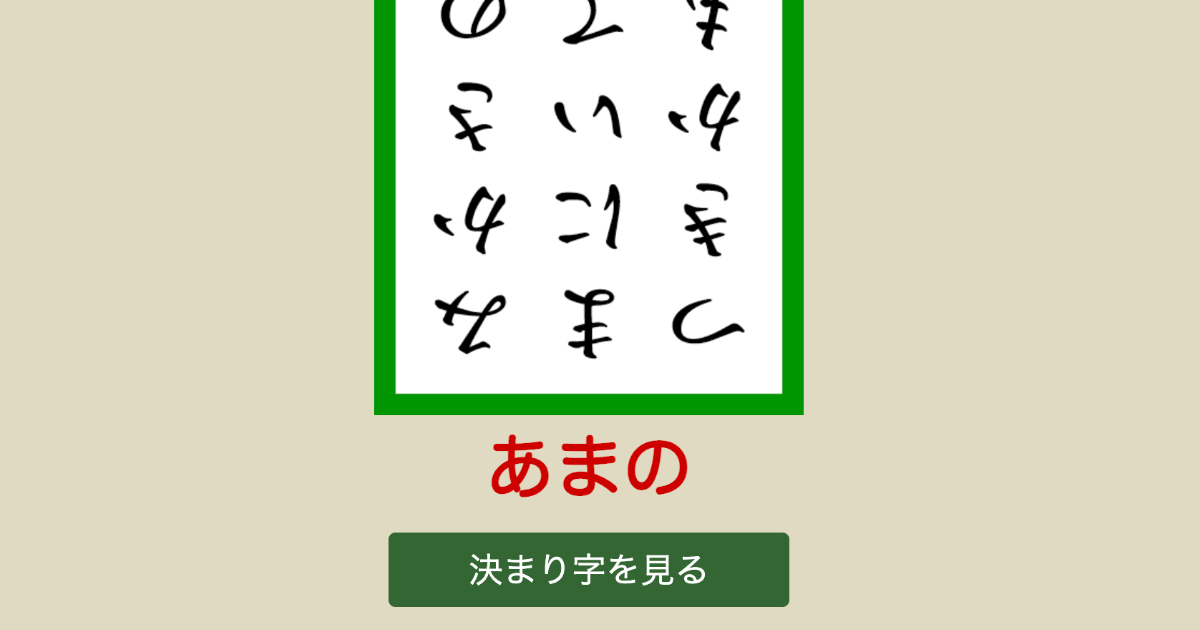
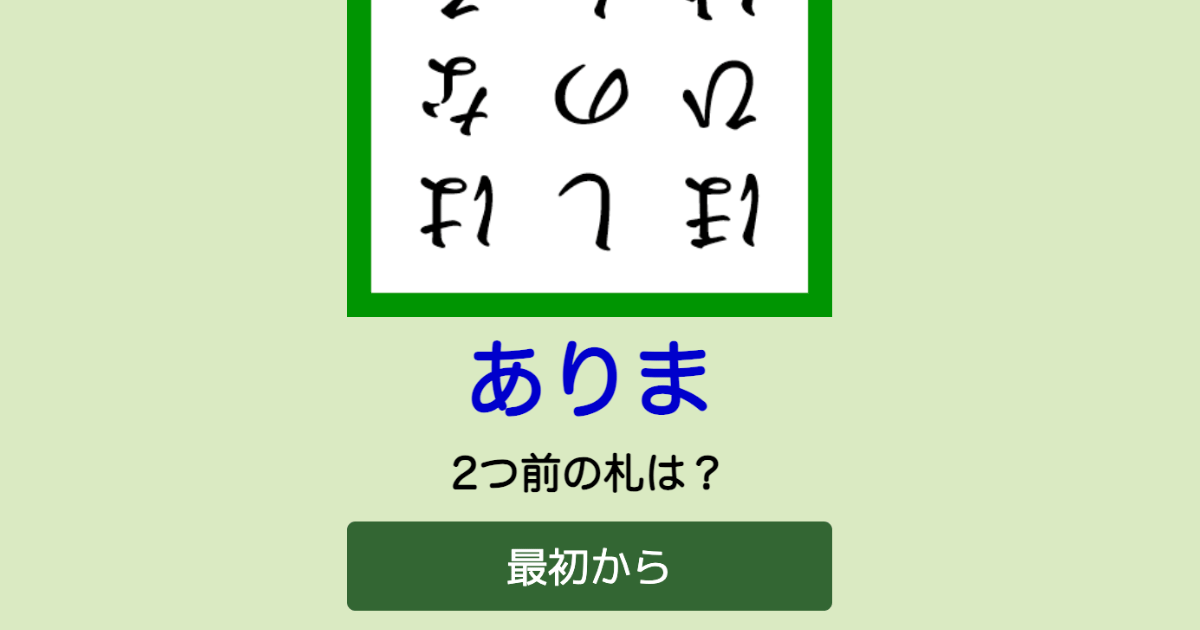
完成版

diff --git a/script.js b/script.js
@@ -12,18 +12,19 @@ document.addEventListener("DOMContentLoaded", function() {
     const imageElement = document.getElementById('random-image');
     const reloadButton = document.getElementById('reload-button');
     const kimariji = document.getElementById('kimariji');
+    const question = document.getElementById('question');
     const kimarijiButton = document.getElementById('kimariji-button');
 
     // 決まり字の表示
-    kimarijiButton.addEventListener('click', function() {
-        if (window.getComputedStyle(kimariji).display === 'none') {
-            kimariji.style.display = 'flex';
-        }
-    });
+    // kimarijiButton.addEventListener('click', function() {
+    //     if (window.getComputedStyle(kimariji).display === 'none') {
+    //         kimariji.style.display = 'flex';
+    //     }
+    // });
 
-    // 配列をシャッフルする
+    // 配列の先頭から100個をシャッフルする
     function shuffleArray(array) {
-        for (let i = array.length - 1; i > 0; i--) {
+        for (let i = 99; i > 0; i--) {
             const j = Math.floor(Math.random() * (i + 1));
             [array[i], array[j]] = [array[j], array[i]];
         }
@@ -53,8 +54,10 @@ document.addEventListener("DOMContentLoaded", function() {
     function resetPage(){
         imageElement.src = './torifuda/tori_0.png';
         kimariji.textContent = '';
+        kimariji.style.display = 'none';
+        question.style.display = 'none';
         currentFuda = 0;
-        fudaOrder = shuffleArray(fudaOrder)
+        fudaOrder = shuffleArray(fudaOrder);
     }   
 
     // 札リストから選ばれた札を表示
@@ -62,7 +65,12 @@ document.addEventListener("DOMContentLoaded", function() {
         const fuda = fudaOrder[order];
         const isFlipped = Math.random() < 0.5;
         imageElement.src = isFlipped ? fuda.reverse : fuda.normal;
-        document.getElementById('kimariji').textContent = fuda.kimariji;
+
+        // 決まり字は3つ前のものを表示
+        if (order >= 3) {
+            const fuda2back = fudaOrder[order - 3];
+            document.getElementById('kimariji').textContent = fuda2back.kimariji;
+        }
     }
 
     // 画像クリック時のイベント
@@ -71,15 +79,19 @@ document.addEventListener("DOMContentLoaded", function() {
             startTime = Date.now();
             displayFuda(currentFuda);
             currentFuda++;
-        } else if (currentFuda === 100) {
+        } else if (currentFuda === 103) {
             stopTimer();
+        } else if (currentFuda === 2) {
+            displayFuda(currentFuda);
+            question.style.display = 'flex';
+            currentFuda++;
+        } else if (currentFuda === 3) {
+            displayFuda(currentFuda);
+            kimariji.style.display = 'flex';
+            currentFuda++;
         } else {
             displayFuda(currentFuda);
             currentFuda++;
-        }
-
-        if (window.getComputedStyle(kimariji).display === 'flex') {
-            kimariji.style.display = 'none';
         }
     });
 

diff --git a/index.html b/index.html
@@ -1,25 +1,25 @@
 <!DOCTYPE html>
 <html lang="ja">
   <head>
-    <meta property="og:title" content="札流し">
-    <meta property="og:description" content="札流しを練習するためのWebアプリ">
+    <meta property="og:title" content="2-back札流し">
+    <meta property="og:description" content="2つ前の決まり字を言う札流しWebアプリ">
     <meta property="og:type" content="website">
-    <meta property="og:url" content="https://kg9n3n8y.github.io/fudanagashi/">
-    <meta property="og:image" content="https://kg9n3n8y.github.io/fudanagashi/thumbnail.png">
-    <meta property="og:site_name" content="札流し">
+    <meta property="og:url" content="https://kg9n3n8y.github.io/fudanagashi_2back/">
+    <meta property="og:image" content="https://kg9n3n8y.github.io/fudanagashi_2back/thumbnail.png">
+    <meta property="og:site_name" content="2-back札流し">
     <meta property="og:locale" content="ja_JP">
     <meta name="twitter:card" content="summary_large_image">
-    <meta name="twitter:title" content="札流し">
-    <meta name="twitter:description" content="札流しを練習するためのWebアプリ">
-    <meta name=”twitter:image” content=”https://kg9n3n8y.github.io/fudanagashi/thumbnail.png” />
+    <meta name="twitter:title" content="2-back札流し">
+    <meta name="twitter:description" content="2つ前の決まり字を言う札流しWebアプリ">
+    <meta name=”twitter:image” content=”https://kg9n3n8y.github.io/fudanagashi_2back/thumbnail.png” />
     <meta charset="utf-8">
     <meta name="viewport" content="width=device-width, initial-scale=1">
     <meta name="apple-mobile-web-app-capable" content="yes">
     <meta name="mobile-web-app-capable" content="yes">
-    <title>札流し</title>
+    <title>2-back札流し</title>
     <link rel="manifest" href="manifest.json"/>
-    <link rel="shortcut icon" type="image/png" href="https://kg9n3n8y.github.io/fudanagashi/icon.png">
-    <link rel="apple-touch-icon" sizes="180x180" href="https://kg9n3n8y.github.io/fudanagashi/icon.png">
+    <link rel="shortcut icon" type="image/png" href="https://kg9n3n8y.github.io/fudanagashi_2back/icon.png">
+    <link rel="apple-touch-icon" sizes="180x180" href="https://kg9n3n8y.github.io/fudanagashi_2back/icon.png">
     <link rel="stylesheet" href="./style.css">
     <script src="./fudalist.js"></script>
   </head>
@@ -40,10 +40,11 @@
     </div>
 
     <div id="kimariji"></div>
+    <div id="question">2つ前の札は？</div>
 
-    <div class="button-container">
+    <!-- <div class="button-container">
       <button id="kimariji-button">決まり字を見る</button>
-    </div>
+    </div> -->
 
     <div class="button-container">
         <button id="reload-button">最初から</button>
@@ -251,6 +252,7 @@
       <img src="./torifuda/tori_r_98.png">
       <img src="./torifuda/tori_r_99.png">
       <img src="./torifuda/tori_r_100.png">
+      <img src="./torifuda/tori_dummy.png">
     </div>
 
     <script src="script.js"></script>

diff --git a/fudalist.js b/fudalist.js
@@ -98,5 +98,8 @@ const fudalist = [
     { no:   97, kimariji: "こぬ", normal: "./torifuda/tori_97.png", reverse: "./torifuda/tori_r_97.png"},
     { no:   98, kimariji: "かぜそ", normal: "./torifuda/tori_98.png", reverse: "./torifuda/tori_r_98.png"},
     { no:   99, kimariji: "ひとも", normal: "./torifuda/tori_99.png", reverse: "./torifuda/tori_r_99.png"},
-    { no:   100, kimariji: "もも", normal: "./torifuda/tori_100.png", reverse: "./torifuda/tori_r_100.png"}
+    { no:   100, kimariji: "もも", normal: "./torifuda/tori_100.png", reverse: "./torifuda/tori_r_100.png"},
+    { no:   101, kimariji: "", normal: "./torifuda/tori_dummy.png", reverse: "./torifuda/tori_dummy.png"},
+    { no:   102, kimariji: "", normal: "./torifuda/tori_dummy.png", reverse: "./torifuda/tori_dummy.png"},
+    { no:   103, kimariji: "", normal: "./torifuda/tori_dummy.png", reverse: "./torifuda/tori_dummy.png"}
 ]

diff --git a/style.css b/style.css
@@ -3,7 +3,7 @@ html {
 }
 
 body {
-  background-color : #E1DAC3;
+  background-color : #daeac2;
   font-size        : 20px;
   display          : flex;
   flex-direction   : column;
@@ -13,7 +13,7 @@ body {
 }
 
 #image-container {
-  width            : 300px;
+  width            : 280px;
   height           : auto;
   display          : flex;
   align-items      : center;
@@ -46,7 +46,15 @@ button {
 #kimariji {
   font-size        : 48px;
   font-weight      : bold;
-  color            : #cc0000;
+  color            : #0000cc;
+  margin           : 0;
+  display          : none;
+}
+
+#question {
+  font-size        : 24px;
+  font-weight      : bold;
+  color            : #000000;
   margin           : 0;
   display          : none;
 }

diff --git a/sw.js b/sw.js
@@ -1,5 +1,5 @@
 // Cache name
-const CACHE_NAME = 'fudanagashi-caches';
+const CACHE_NAME = 'fudanagashi-2back-caches';
 // Cache targets
 const urlsToCache = [
   './',
@@ -208,7 +208,8 @@ const urlsToCache = [
   "./torifuda/tori_r_97.png",
   "./torifuda/tori_r_98.png",
   "./torifuda/tori_r_99.png",
-  "./torifuda/tori_r_100.png"
+  "./torifuda/tori_r_100.png",
+  "./torifuda/tori_dummy.png"
 ];
 
 self.addEventListener('install', (event) => {

diff --git a/README.md b/README.md
@@ -1,5 +1,5 @@
-# fudanagashi
+# fudanagashi_2back
 
-札流しをするWebアプリ
+2つ前の決まり字を言う札流しWebアプリ
 
-https://kg9n3n8y.github.io/fudanagashi/
+https://kg9n3n8y.github.io/fudanagashi_2back/
